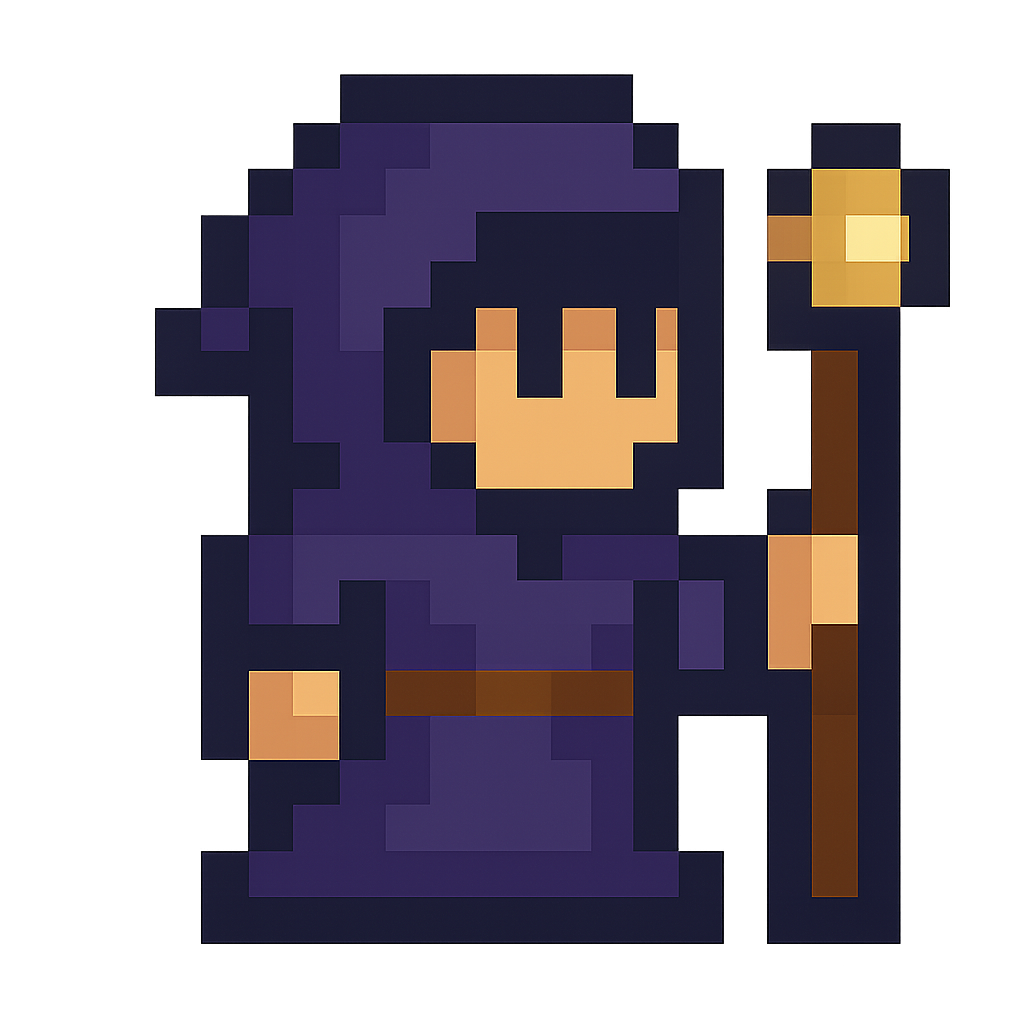
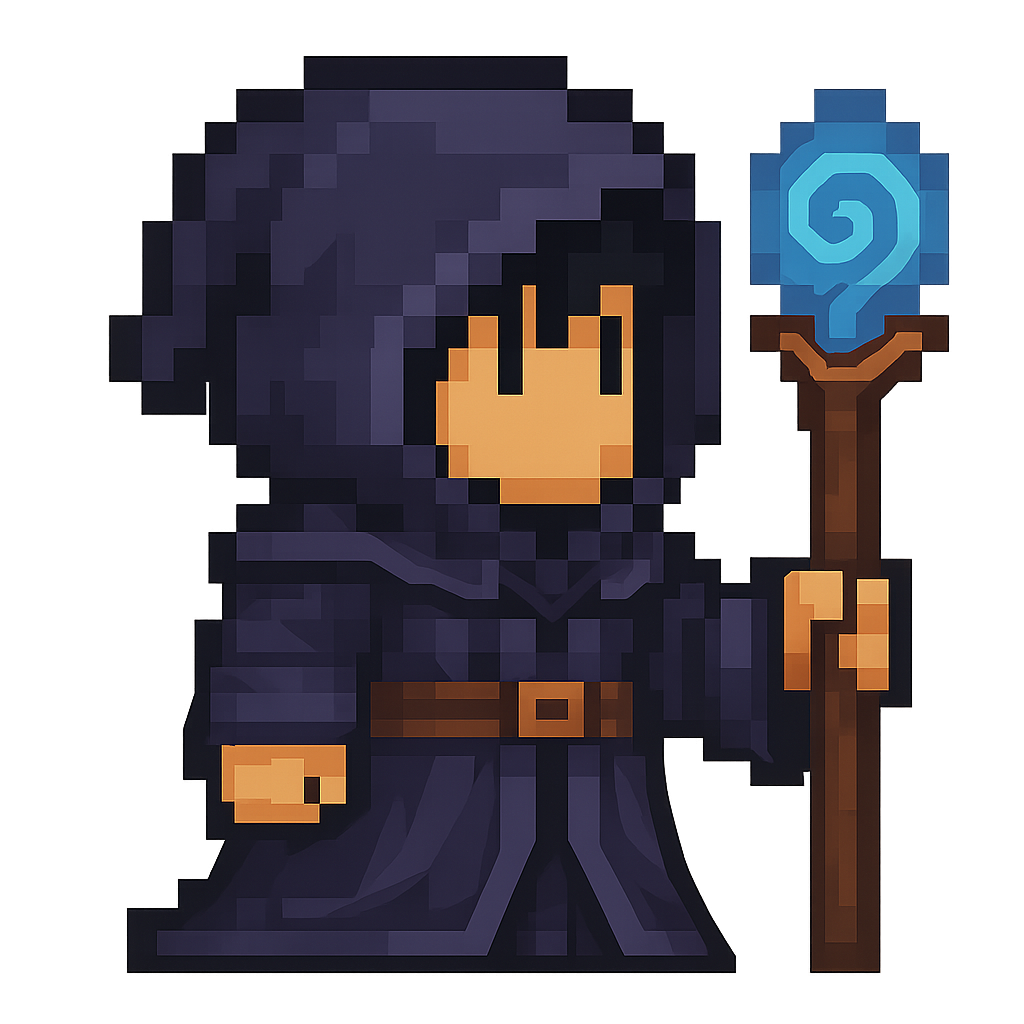
image update
updated magee icon and fixed condition in PlayerStatusPanelGUI class

diff --git a/src/game/gui/PlayerStatusPanelGUI.java b/src/game/gui/PlayerStatusPanelGUI.java
@@ -208,8 +208,8 @@ public class PlayerStatusPanelGUI extends JPanel {
         else if(character instanceof Archer)
             passiveSkillPanelGUI.updateContent(loadAndScaleIcon("/icons/accuracy.png", 40, 40), "Special Accuracy", "Has higher accuracy when attacking.");
         else if(character instanceof Mage)
-            passiveSkillPanelGUI.updateContent(loadAndScaleIcon("/icons/multiplier.png", 40, 40), "Special Attack", "Has elemental attack with higher multipliers.");
+            passiveSkillPanelGUI.updateContent(loadAndScaleIcon("/icons/multiplier.png", 40, 40), "Special Attack", "Has elemental attack with higher damage multipliers.");
         else
-            passiveSkillPanelGUI = new PassiveSkillPanelGUI(loadAndScaleIcon("/images/missing.png", 40, 40), "NULL", "NULL");
+            passiveSkillPanelGUI.updateContent(loadAndScaleIcon("/images/missing.png", 40, 40), "NULL", "NULL");
     }
 }
